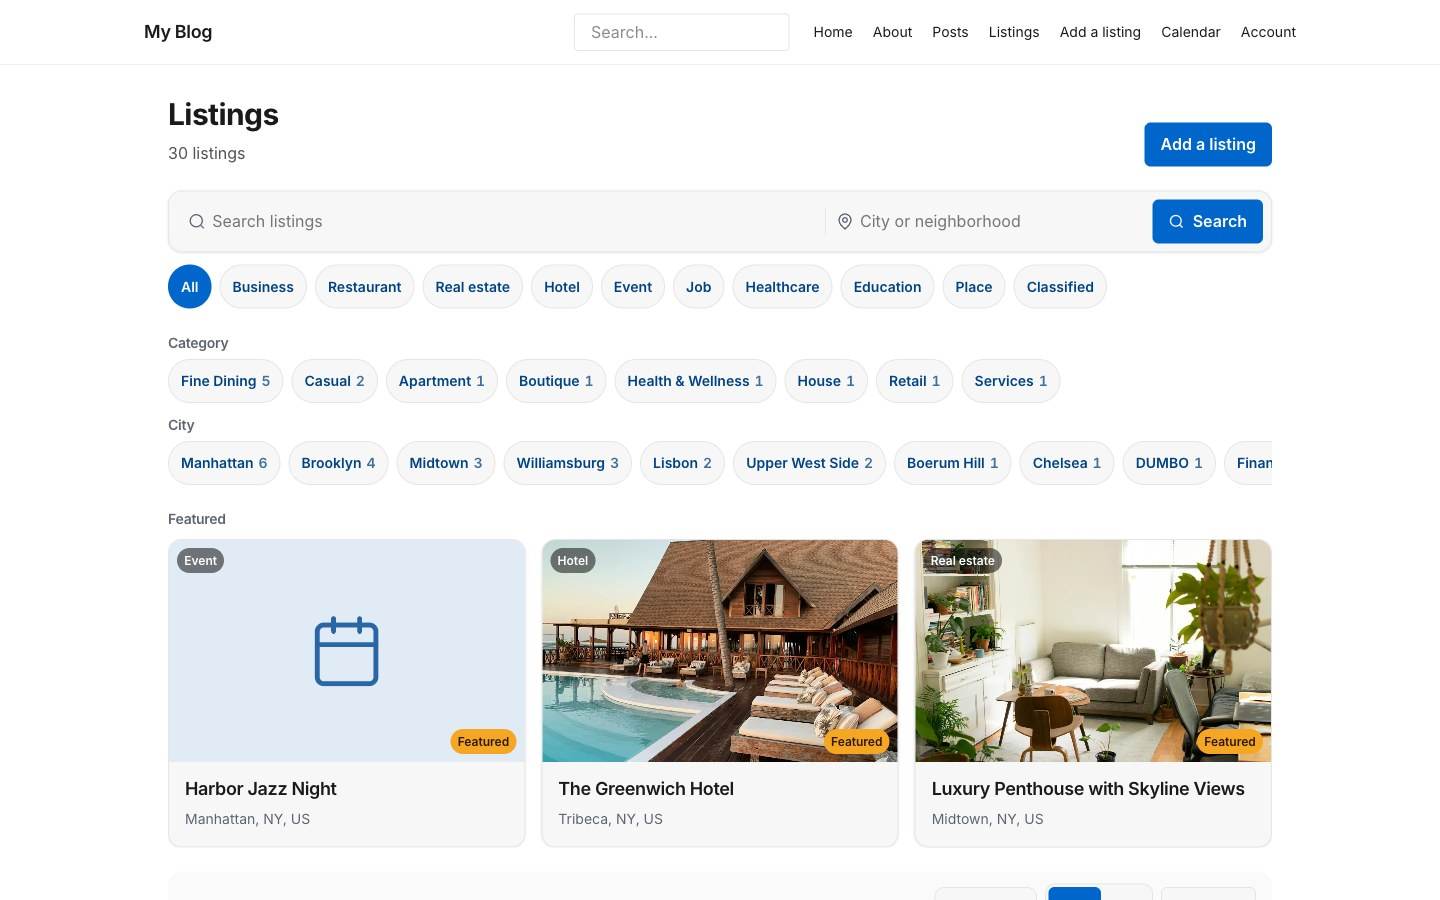
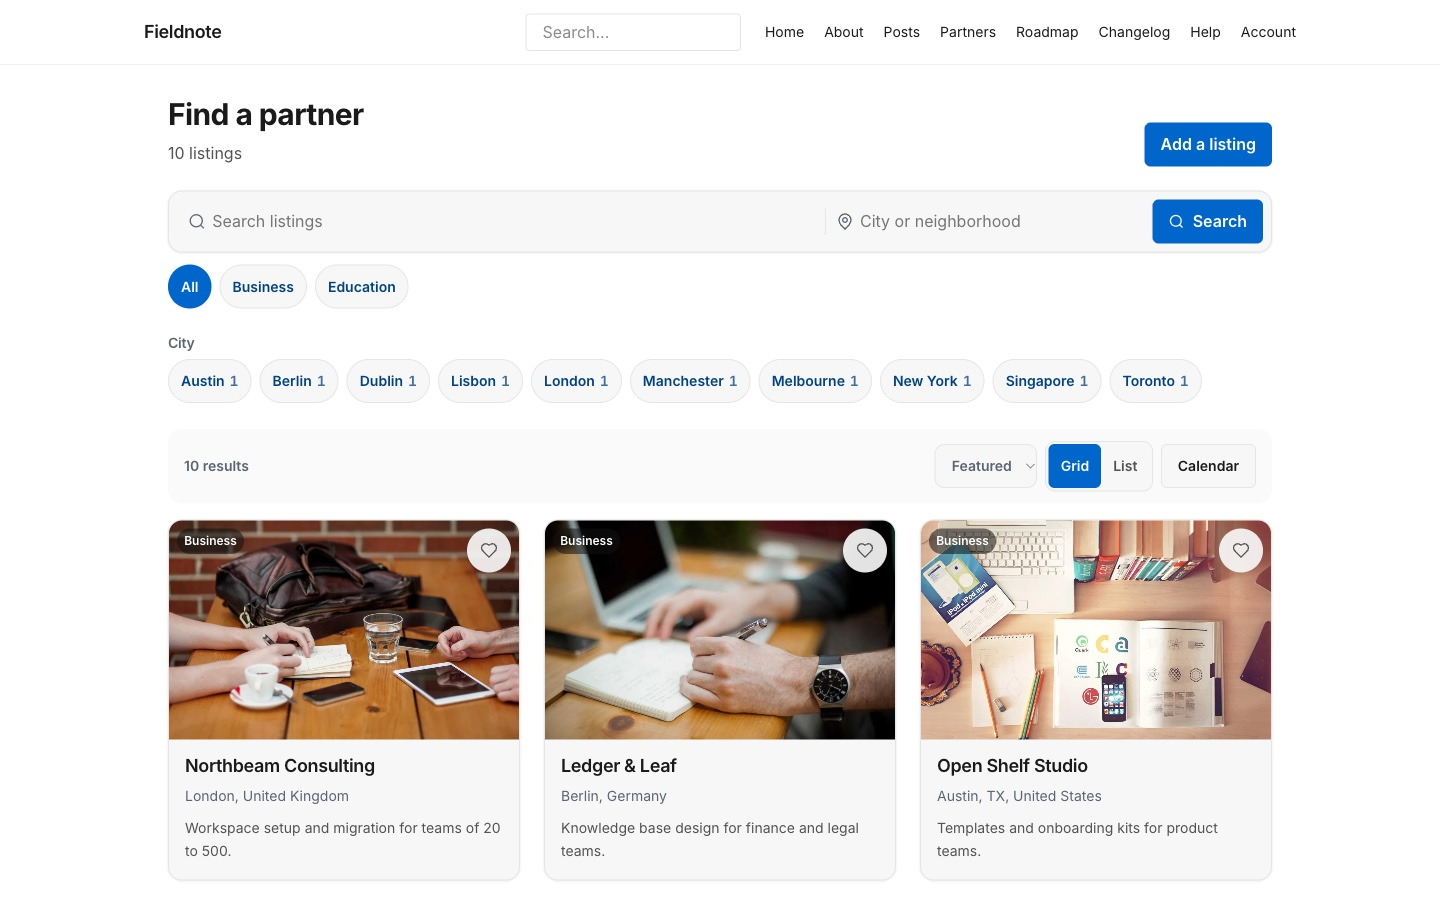
Listora 0.5.2: type filter shows only the types in use; registry screenshots from the standard blog template
The directory offered a chip for every listing type, so a visitor could pick
one with no listings. Chips now come from the published listings (the whole
directory, not the filtered list) and the row hides with fewer than two;
checked at 390 dark with Business selected (All, Business, Education). The
five registry screenshots are retaken on the Fieldnote showcase (no 'My Blog'
or 'Dev Admin'). setup-lab.sh builds labs from the blog template and refuses
starter labs. Closes #58.

diff --git a/CHANGELOG.md b/CHANGELOG.md
@@ -4,6 +4,12 @@ Versions match `package.json`, the git tag, and the EmDash registry release. New
 
 ## [Unreleased]
 
+## [0.5.2] - 2026-10-14
+
+Copy the kit again (`scripts/add-to-site.sh`) after you update.
+
+- Fix      - The directory offers a type filter only for the types its listings use, and hides the row when there is only one, so a visitor never picks a type with no listings.
+
 ## [0.5.1] - 2026-10-14
 
 Fixes the site pages on a site that installed Listora from the registry. Copy the kit again (`scripts/add-to-site.sh`) after you update.

diff --git a/docs/registry/changelog.md b/docs/registry/changelog.md
@@ -1,3 +1,7 @@
+## 0.5.2
+
+- Fix: the directory offers a type filter only for types its listings use, and hides it when there is just one. Copy the kit again after updating.
+
 ## 0.5.1
 
 - Fix: the directory pages now reach Listora on a site that installed it from the registry. Adding a listing, reviews, saving, messages and the account page failed there before. Copy the kit again after updating.

diff --git a/docs/website/whats-new/0-5-2.md b/docs/website/whats-new/0-5-2.md
@@ -1,0 +1,7 @@
+# 0.5.2
+
+**Included in Free**
+
+Released as `@vapvarun.bsky.social/listora@0.5.2`. GitHub tag `v0.5.2`. Copy the kit again after you update: `scripts/add-to-site.sh /path/to/your/site`.
+
+- The type filter on the directory lists only the types your listings use. When every listing has the same type, the filter row is hidden, so a visitor never picks a type that shows nothing.
